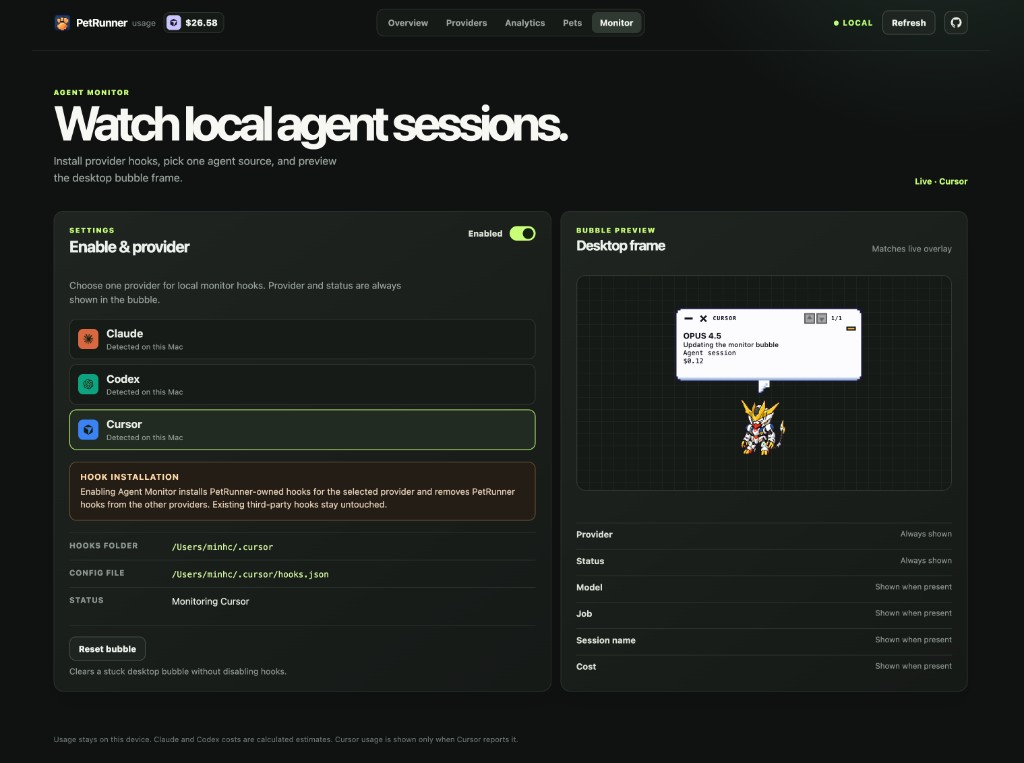
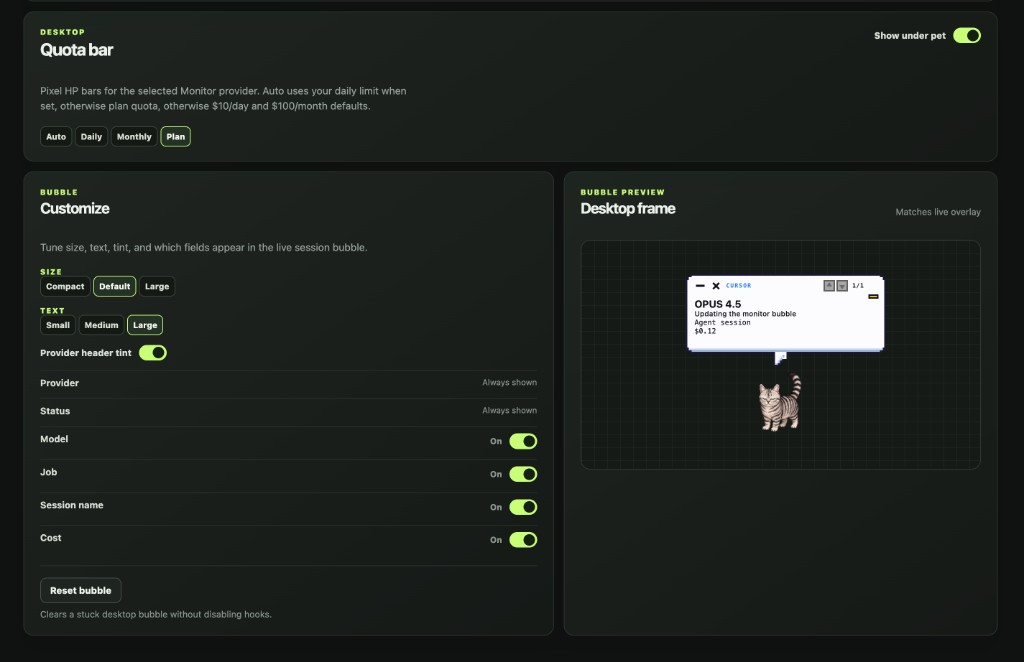
docs(readme): refresh product copy and quota/monitor screenshots (#32)
Document the quota HP bar, accurate privacy/platform caveats, and attach updated desktop and dashboard images.

diff --git a/README.md b/README.md
@@ -1,11 +1,14 @@
 # PetRunner
 
-Local desktop pet runner and usage dashboard for Codex-compatible custom pets.
-It reads `${CODEX_HOME:-~/.codex}/pets` and never starts, embeds, or connects to
-Codex.
+Local desktop pet for Codex-compatible custom pets, with an optional Agent
+Monitor bubble (macOS), under-pet quota HP bar, and a local usage dashboard.
+It reads `${CODEX_HOME:-~/.codex}/pets` and never starts, embeds, or connects
+to Codex.
 
 <p align="center">
-  <img src="https://raw.githubusercontent.com/hdminh/PetRunner/main/docs/images/hero.png" alt="PetRunner desktop pet with agent monitor bubble" width="420" />
+  <img src="https://raw.githubusercontent.com/hdminh/PetRunner/main/docs/images/hero.png" alt="PetRunner desktop pet with Agent Monitor bubble and quota HP bars" width="360" />
+  &nbsp;&nbsp;
+  <img src="https://raw.githubusercontent.com/hdminh/PetRunner/main/docs/images/hero-collapsed.png" alt="PetRunner with collapsed heart quota meter" width="360" />
 </p>
 
 Source: [github.com/hdminh/PetRunner](https://github.com/hdminh/PetRunner)
@@ -17,9 +20,10 @@ npx @hdminh/pet-runner start
 ```
 
 On a TTY, the CLI asks for pets directory, which pet to show, Agent Monitor
-(macOS), which providers feed Usage/Analytics, autonomy, and menu bar
-visibility before building. Use `--yes` to skip the wizard, `--setup` to run
-it again, or `npx @hdminh/pet-runner setup` on its own.
+(macOS), which providers feed Usage/Analytics, autonomous motion, and menu
+bar / tray visibility (menu bar icon on macOS) before building. Use `--yes`
+to skip the wizard, `--setup` to run it again, or
+`npx @hdminh/pet-runner setup` on its own.
 
 On first use, the CLI checks the platform toolchain and builds PetRunner locally.
 Later runs open the installed build immediately—no repository clone required.
@@ -32,8 +36,9 @@ npx @hdminh/pet-runner uninstall
 
 Requirements:
 
+- Node.js 20.19+
 - macOS 14+ with Xcode Command Line Tools
-- Windows 10/11 x64 with the .NET 10 SDK
+- Windows 10/11 (x64 or arm64) with the .NET 10 SDK
 
 Override the pet library:
 
@@ -56,17 +61,25 @@ missing and prefers it when nothing else is selected.
 - Or install with Petdex / `npx codex-pets add <id>`
 
 Drag the pet to move it, throw it toward a screen edge, hover or click to jump,
-or drag the lower-right handle to resize. Use the menu-bar / tray paw to reload
-pets, change size, or quit.
+or drag the lower-right handle to resize. Use the menu-bar / tray paw (or the
+pet’s context menu) to open the Dashboard, enable Agent Monitor (macOS), show
+or mode the Quota Bar, reload pets, change size, toggle autonomous motion, or
+quit.
+
+The under-pet **Quota Bar** shows remaining daily / monthly / plan usage for the
+active Monitor provider (Show / Auto / Daily / Monthly / Plan from the paw menu
+or the Dashboard Monitor tab). It works on macOS and Windows; collapse the bars
+to a heart meter on macOS.
 
 ## Dashboard
 
-Open the Dashboard from the menu bar / tray icon, Applications, or the pet’s
-context menu. Usage indexes local Claude / Codex / Cursor session data on this
-device only.
+Open the Dashboard from the menu bar / tray icon, Applications (macOS), or the
+pet’s context menu. Usage indexes local Claude / Codex / Cursor session files on
+this device. Cursor spend (when enabled) comes from Cursor’s usage API using the
+local Cursor.app login; Cursor Usage/Analytics is macOS-only today.
 
-When Agent Monitor is enabled, the top bar shows today’s spend for the active
-Monitor provider.
+When Agent Monitor is enabled (macOS), the top bar shows today’s spend for the
+active Monitor provider.
 
 ### Overview
 
@@ -78,13 +91,18 @@ volume, and an activity heatmap of when you usually work.
 ### Providers
 
 Per-provider **Usage** and **Pricing** panels, spend charts, model breakdowns,
-and daily / monthly budgets.
+plan quota meters, and daily / monthly budgets.
 
 ![Providers usage](https://raw.githubusercontent.com/hdminh/PetRunner/main/docs/images/providers.png)
 
+![Providers plan quota](https://raw.githubusercontent.com/hdminh/PetRunner/main/docs/images/providers-plan.png)
+
+![Providers recent activity](https://raw.githubusercontent.com/hdminh/PetRunner/main/docs/images/providers-records.png)
+
 ### Analytics
 
-**Sessions**, **Projects**, and **Models**—filter by Claude, Codex, or Cursor.
+**Sessions**, **Projects**, and **Models**—filter by Claude, Codex, or Cursor
+(Cursor filter is macOS-only).
 
 ![Analytics sessions](https://raw.githubusercontent.com/hdminh/PetRunner/main/docs/images/analytics-sessions.png)
 
@@ -92,24 +110,39 @@ and daily / monthly budgets.
 
 ### Pets
 
-Installed library, animation preview, size / menu-bar / folder settings, and
-optional autonomous motion.
+Installed library, ZIP/folder import, animation preview, size / menu-bar /
+folder settings, and optional autonomous motion.
 
 ![Pets tab](https://raw.githubusercontent.com/hdminh/PetRunner/main/docs/images/pets.png)
 
 ### Monitor
 
-Enable Agent Monitor for Claude Code, Codex, or Cursor; preview the desktop
-bubble; reset live session state. Activity labels are derived locally from
-lifecycle hooks—PetRunner never sends them to an LLM.
+On macOS, enable Agent Monitor for Claude Code, Codex, or Cursor; preview the
+desktop bubble; reset live session state. Activity labels are derived locally
+from lifecycle hooks—PetRunner never sends them to an LLM. Deeper hook and
+bubble behavior is in [docs/RUN_LOCAL.md](docs/RUN_LOCAL.md).
+
+Configure the under-pet Quota Bar here (show/hide and Auto / Daily / Monthly /
+Plan)—also available from the menu-bar / tray **Quota Bar** menu on macOS and
+Windows.
 
 ![Monitor tab](https://raw.githubusercontent.com/hdminh/PetRunner/main/docs/images/monitor.png)
 
 ## Privacy
 
-Usage stays on this device. Claude and Codex costs are calculated estimates;
-Cursor usage appears only when Cursor reports it. Agent Monitor never retains
-or displays prompts, tool output, full commands, raw payloads, or transcripts.
+Claude and Codex spend are calculated from local session files on this device.
+Cursor spend is imported from Cursor’s usage API using the local Cursor.app
+login cookie when Cursor reports it. Optional plan-quota meters make
+authenticated requests to Anthropic / ChatGPT / Cursor using credentials already
+on the machine (Claude: `~/.claude` credentials file and, only on explicit
+Refresh Usage, Claude Code Keychain on macOS); PetRunner does not send those
+credentials to PetRunner servers. Computed ledgers and indexes stay local.
+
+Agent Monitor never retains or displays prompts, tool output, full commands,
+raw payloads, or transcripts. Derived activity labels (file basename, search
+pattern, hostname, first command token, and similar) can appear in the bubble
+and are stored only locally in live state, a short recovery journal, and
+optional dashboard session history.
 
 ## Local development
 
@@ -136,8 +169,10 @@ Use **Actions → Release → Run workflow** to cut a new version:
 1. Choose `patch` / `minor` / `major`, `current` (release what’s already in
    `package.json`), or `custom` + exact version
 2. Leave `dry_run` off to commit the bump to `main` and create tag `vX.Y.Z`
-3. `publish-packages.yml` runs on that GitHub Release and publishes npm + GitHub Packages
-4. Optional: keep `attach_windows` on to build Windows `.exe` assets onto the same release
+3. `publish-packages.yml` is intended to run on that GitHub Release and publish
+   npm + GitHub Packages (re-dispatch manually if the publish jobs do not start)
+4. Keep `attach_macos` / `attach_windows` on (defaults) to attach universal
+   `.dmg` and Windows `.exe` assets to the same release
 
 Package versions are immutable after npm publish; always bump before a follow-up
 release. Do not publish unless explicitly intended.
